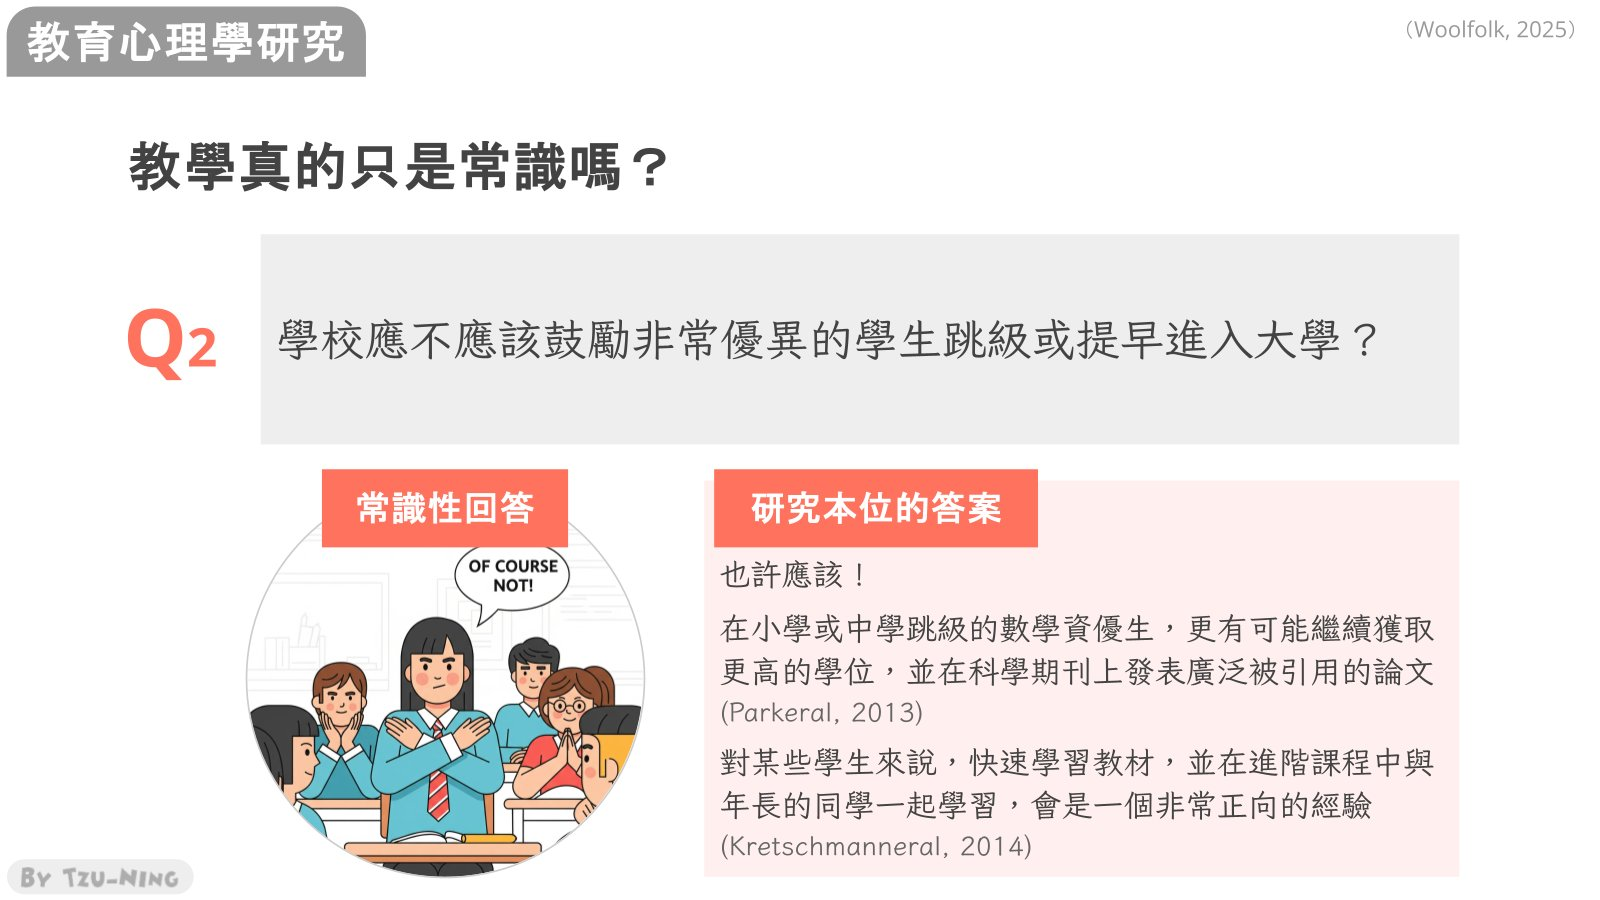
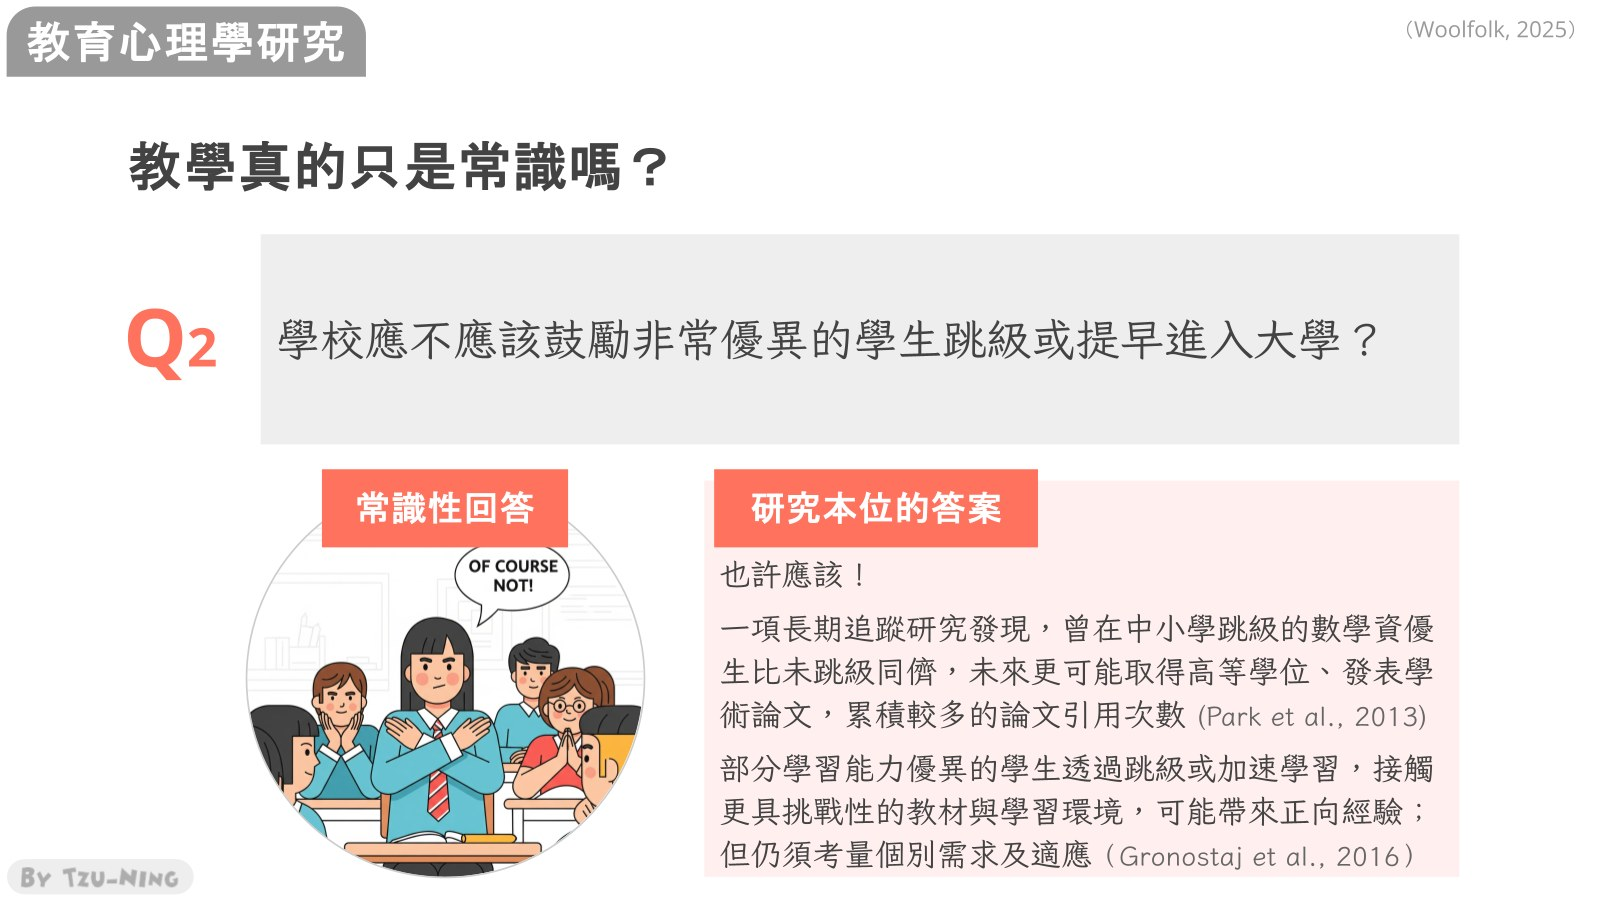
第 1 週：依查證結果修正迷思二，並換上老師更新後的投影片
- 迷思二改依老師修訂文字，Kretschmann et al. (2014) 改為 Gronostaj et al. (2016)，資料來源同步更新
- 換上老師修正後的 11 張投影片圖（範疇、哲學思辨期、當代多元、好老師、三個迷思、實驗法、ABAB、相關法）

Changed region(s): [[0.4375, 0.6844, 0.9062, 0.9644]]

diff --git a/review/week01/index.html b/review/week01/index.html
@@ -69,7 +69,7 @@
     <p>這項迷思源自兩個各自成立的事實：一是人們確實有偏好的訊息接收方式；二是教師以多種感官模式呈現訊息，確實有較佳的教學成效。兩者結合後，被誤推為「依偏好風格教學效果最好」，但研究並不支持此結論。</p>
     <figure class="slide"><img src="slides/q1.jpg" alt="投影片：迷思一：學習風格（Woolfolk, 2025）" width="1600" height="900" loading="lazy"><figcaption>迷思一：學習風格（Woolfolk, 2025）</figcaption></figure>
     <h3 id="s4-2">迷思二：資優學生不應跳級或提早進入大學</h3>
-    <p>常見的顧慮是跳級可能造成人際與生活適應上的困難。研究結果則傾向<strong>支持適度的加速學習</strong>：在小學或中學跳級的數學資優生，較可能取得更高學位，並發表廣泛被引用的論文（Park et al., 2013）；對部分資優學生而言，快速學習教材並與能力相當的同儕一同學習，是正向的經驗（Kretschmann et al., 2014）。</p>
+    <p>常見的顧慮是跳級可能造成人際與生活適應上的困難。研究結果則傾向<strong>支持適度的加速學習</strong>：一項長期追蹤研究發現，曾在中小學跳級的數學資優生，比未跳級的同儕更可能取得高等學位、發表學術論文，並累積較多的論文引用次數（Park et al., 2013）；部分學習能力優異的學生透過跳級或加速學習，接觸更具挑戰性的教材與學習環境，可能帶來正向經驗，但仍須考量個別需求及適應（Gronostaj et al., 2016）。</p>
     <p>解讀這類研究時，仍需留意樣本規模，以及研究如何界定「成功」。取得高學位或發表論文未必是每個人的人生目標，因此研究結論多以保留的語氣呈現。</p>
     <figure class="slide"><img src="slides/q2.jpg" alt="投影片：迷思二：資優生跳級（Woolfolk, 2025）" width="1600" height="900" loading="lazy"><figcaption>迷思二：資優生跳級（Woolfolk, 2025）</figcaption></figure>
     <h3 id="s4-3">迷思三：給學生更多選擇，就能促進學習</h3>
@@ -104,7 +104,7 @@
     <h2 id="s9">本週重點整理</h2>
     <ul><li>教育心理學涵蓋發展理論、學習理論、教學理論／教學法、學習多樣性與教學實踐五大範疇。</li><li>教育心理學的發展分為六個時期，每一時期都在回應前一時期的不足。</li><li><span class="mark">桑代克被稱為「教育心理學之父」。</span></li><li>優質教學的幾個概念：學科知識與教學技能兼備、有目的性的教學、教師效能感。</li><li>學習風格、資優生跳級與給予選擇三個例子顯示，常識未必經得起研究檢驗。</li><li>實驗室實驗內在效度高，隨機化實地實驗外在效度佳；ABAB 設計有助於建立因果關係；實驗與準實驗研究的差別在於是否隨機分派。</li><li><span class="mark">相關係數介於 -1 到 1 之間；相關不等於因果。</span></li></ul>
     <h2 class="plain">資料來源</h2>
-    <ul class="sources"><li><span class="name">王孜𡩋</span>，〈教育心理學概論〉課堂講授，2026 年 10 月 8 日。</li><li><span class="name">王孜𡩋</span>，〈教育心理學概論〉課堂投影片，國立臺灣師範大學教育心理與輔導學系。文中圖片皆取自此投影片。</li><li>文中引用的研究文獻依投影片標註：Barrish, Saunders, &amp; Wolf (1969)；Kicken et al. (2009)；Kretschmann et al. (2014)；Macdonald et al. (2017)；Park et al. (2013)；Slavin (2021)；Woolfolk (2025)。</li></ul>
+    <ul class="sources"><li><span class="name">王孜𡩋</span>，〈教育心理學概論〉課堂講授，2026 年 10 月 8 日。</li><li><span class="name">王孜𡩋</span>，〈教育心理學概論〉課堂投影片，國立臺灣師範大學教育心理與輔導學系。文中圖片皆取自此投影片。</li><li>文中引用的研究文獻依投影片標註：Barrish, Saunders, &amp; Wolf (1969)；Gronostaj et al. (2016)；Kicken et al. (2009)；Macdonald et al. (2017)；Park et al. (2013)；Slavin (2021)；Woolfolk (2025)。</li></ul>
   </div>
   <footer class="post-foot"><p>本文整理自課堂講授內容，不含課堂討論與學員發言。練習題請見課程網站「<a href="https://sites.google.com/view/tn-edpsy/quiz" target="_blank" rel="noopener">牛刀小試</a>」。</p></footer>
 </article>

diff --git a/review-src/week01/content.py b/review-src/week01/content.py
@@ -87,7 +87,7 @@ BLOCKS = [
  ("p", "這項迷思源自兩個各自成立的事實：一是人們確實有偏好的訊息接收方式；二是教師以多種感官模式呈現訊息，確實有較佳的教學成效。兩者結合後，被誤推為「依偏好風格教學效果最好」，但研究並不支持此結論。"),
  ("img", "q1", "迷思一：學習風格（Woolfolk, 2025）"),
  ("h3", "迷思二：資優學生不應跳級或提早進入大學"),
- ("p", "常見的顧慮是跳級可能造成人際與生活適應上的困難。研究結果則傾向**支持適度的加速學習**：在小學或中學跳級的數學資優生，較可能取得更高學位，並發表廣泛被引用的論文（Park et al., 2013）；對部分資優學生而言，快速學習教材並與能力相當的同儕一同學習，是正向的經驗（Kretschmann et al., 2014）。"),
+ ("p", "常見的顧慮是跳級可能造成人際與生活適應上的困難。研究結果則傾向**支持適度的加速學習**：一項長期追蹤研究發現，曾在中小學跳級的數學資優生，比未跳級的同儕更可能取得高等學位、發表學術論文，並累積較多的論文引用次數（Park et al., 2013）；部分學習能力優異的學生透過跳級或加速學習，接觸更具挑戰性的教材與學習環境，可能帶來正向經驗，但仍須考量個別需求及適應（Gronostaj et al., 2016）。"),
  ("p", "解讀這類研究時，仍需留意樣本規模，以及研究如何界定「成功」。取得高學位或發表論文未必是每個人的人生目標，因此研究結論多以保留的語氣呈現。"),
  ("img", "q2", "迷思二：資優生跳級（Woolfolk, 2025）"),
  ("h3", "迷思三：給學生更多選擇，就能促進學習"),
@@ -145,6 +145,6 @@ BLOCKS = [
  ("h2plain", "資料來源"),
  ("ul", ["王孜𡩋，〈教育心理學概論〉課堂講授，2026 年 10 月 8 日。",
          "王孜𡩋，〈教育心理學概論〉課堂投影片，國立臺灣師範大學教育心理與輔導學系。文中圖片皆取自此投影片。",
-         "文中引用的研究文獻依投影片標註：Barrish, Saunders, & Wolf (1969)；Kicken et al. (2009)；Kretschmann et al. (2014)；Macdonald et al. (2017)；Park et al. (2013)；Slavin (2021)；Woolfolk (2025)。"]),
+         "文中引用的研究文獻依投影片標註：Barrish, Saunders, & Wolf (1969)；Gronostaj et al. (2016)；Kicken et al. (2009)；Macdonald et al. (2017)；Park et al. (2013)；Slavin (2021)；Woolfolk (2025)。"]),
  ("foot", "本文整理自課堂講授內容，不含課堂討論與學員發言。練習題請見課程網站「牛刀小試」。"),
 ]
